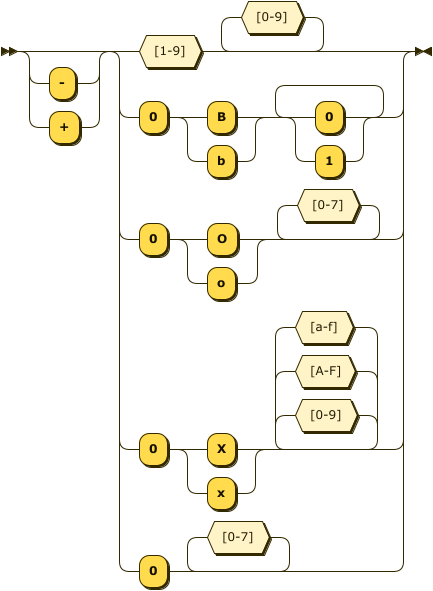
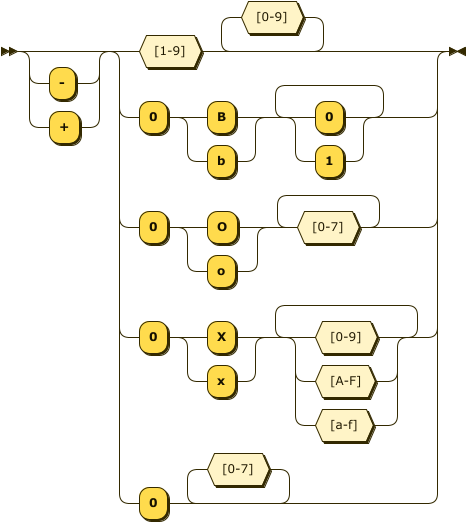
Fixed lexical scanning of integer literals

Changed region(s): [[0.0, 0.0306, 1.0, 1.0], [0.5104, 0.0, 0.7506, 0.0918], [0.5704, 0.5813, 0.6005, 0.6424]]

diff --git a/docs/language.html b/docs/language.html
@@ -268,7 +268,7 @@
           <div id="integer">
             <h1 class="pb-2">integer</h1>
             <p><img src="img/integer.png" alt="Railroad Diagram" /></p>
-            <pre><code>integer ::= [-+]? ([1-9][0-9]* | &quot;0&quot;[Bb][01]+ | &quot;0&quot;[Oo][0-7]* | &quot;0&quot;[Xx][0-9A-Fa-f]* | &quot;0&quot;[0-7]*)
+            <pre><code>integer ::= [-+]? ([1-9][0-9]* | &quot;0&quot;[Bb][01]+ | &quot;0&quot;[Oo][0-7]+ | &quot;0&quot;[Xx][0-9A-Fa-f]+ | &quot;0&quot;[0-7]*)
 </code></pre>
           </div>
           <div id="real">

diff --git a/language/language/OtScanner.cpp b/language/language/OtScanner.cpp
@@ -108,6 +108,18 @@ void OtScanner::loadSource(OtSource src) {
 
 
 //
+//	Helper functions
+//
+
+static inline bool isBinaryPrefix(char c) { return c == 'b' || c == 'B'; }
+static inline bool isOctalPrefix(char c) { return c == 'o' || c == 'O'; }
+static inline bool isHexPrefix(char c) { return c == 'x' || c == 'X'; }
+
+static inline bool isBinaryDigit(char c) { return c == '0' || c == '1'; }
+static inline bool isOctalDigit(char c) { return c >= '0' && c <= '7'; }
+
+
+//
 //	OtScanner::advance
 //
 
@@ -171,10 +183,11 @@ OtScanner::Token OtScanner::advance() {
 	if (position == size) {
 		token = Token::endOfText;
 
-	// handle numerical values
+	// handle numeric literals
 	} else if (std::isdigit(source->at(position)) ||
-				(source->at(position) =='-' && position < size && std::isdigit(source->at(position + 1))) ||
-				(source->at(position) =='+' && position < size && std::isdigit(source->at(position + 1)))) {
+		(source->at(position) =='-' && position < size && std::isdigit(source->at(position + 1))) ||
+		(source->at(position) =='+' && position < size && std::isdigit(source->at(position + 1)))) {
+
 		auto start = position;
 		int sign = 1;
 
@@ -186,68 +199,79 @@ OtScanner::Token OtScanner::advance() {
 			position++;
 		}
 
-		// see if we have a binary constant
-		if (source->at(position) == '0' && (source->at(position + 1) == 'b' || source->at(position + 1) == 'B')) {
+		// see if we have a binary literal
+		if (position + 3 < size && source->at(position) == '0' && isBinaryPrefix(source->at(position + 1)) && isBinaryDigit(source->at(position + 2))) {
 			position += 2;
 			auto value = position;
 
-			while (source->at(position) == '0' || source->at(position) == '1') {
+			while (position < size && isBinaryDigit(source->at(position))) {
 				position++;
 			}
 
 			integerValue = sign * std::stol(source->substr(value, position - value), 0, 2);
 			token = Token::integerLiteral;
 
-		// see if we have an octal constant
-		} else if (source->at(position) == '0' && (source->at(position + 1) == 'o' || source->at(position + 1) == 'O')) {
+		// see if we have an octal literal
+		} else if (position + 3 < size && source->at(position) == '0' && isOctalPrefix(source->at(position + 1)) && isOctalDigit(source->at(position + 2))) {
 			position += 2;
 			auto value = position;
 
-			while (source->at(position) >= '0' && source->at(position) <= '7') {
+			while (position < size && isOctalDigit(source->at(position))) {
 				position++;
 			}
 
 			integerValue = sign * std::stol(source->substr(value, position - value), 0, 8);
 			token = Token::integerLiteral;
 
-		// see if we have a hexadecimal constant
-		} else if (source->at(position) == '0' && (source->at(position + 1) == 'x' || source->at(position + 1) == 'X')) {
+		// see if we have a hexadecimal literal
+		} else if (position + 3 < size && source->at(position) == '0' && isHexPrefix(source->at(position + 1)) && isxdigit(source->at(position + 2))) {
 			position += 2;
 			auto value = position;
 
-			while (isxdigit(source->at(position))) {
+			while (position < size && isxdigit(source->at(position))) {
 				position++;
 			}
 
 			integerValue = sign * std::stol(source->substr(value, position - value), 0, 16);
 			token = Token::integerLiteral;
 
-		// handle integers and reals
+		// see if we have a C-style octal literal
+		} else if (position + 2 < size && source->at(position) == '0' && isOctalDigit(source->at(position + 1))) {
+			auto value = ++position;
+
+			while (position < size && isOctalDigit(source->at(position))) {
+				position++;
+			}
+
+			integerValue = sign * std::stol(source->substr(value, position - value), 0, 8);
+			token = Token::integerLiteral;
+
+		// handle decimal integers and reals
 		} else {
 			// handle integer part
-			while (std::isdigit(source->at(position))) {
+			while (position < size && std::isdigit(source->at(position))) {
 				position++;
 			}
 
 			// is this a real?
-			if (source->at(position) =='.' && position < size && std::isdigit(source->at(position + 1))) {
+			if (position < size && source->at(position) =='.' && position < size && std::isdigit(source->at(position + 1))) {
 				position++;
 
-				while (std::isdigit(source->at(position))) {
+				while (position < size && std::isdigit(source->at(position))) {
 					position++;
 				}
 
 				if (tolower(source->at(position)) =='e' && position < size) {
 					position++;
 
-					if (source->at(position) =='-') {
+					if (position < size && source->at(position) =='-') {
 						position++;
 
-					} else if (source->at(position) =='+') {
+					} else if (position < size && source->at(position) =='+') {
 						position++;
 					}
 
-					while (std::isdigit(source->at(position))) {
+					while (position < size && std::isdigit(source->at(position))) {
 						position++;
 					}
 				}
@@ -261,7 +285,7 @@ OtScanner::Token OtScanner::advance() {
 			}
 		}
 
-	// handle strings
+	// handle string literals
 	} else if (source->at(position) =='"') {
 		auto start = ++position;
 
@@ -279,7 +303,7 @@ OtScanner::Token OtScanner::advance() {
 
 	// handle identifiers (and tokens with identifier structure)
 	} else if (source->at(position) =='_' || std::isalpha(source->at(position))) {
-		while (source->at(position) =='_' || std::isalnum(source->at(position))) {
+		while (position < size && (source->at(position) =='_' || std::isalnum(source->at(position)))) {
 			position++;
 		}
 

diff --git a/docs-src/language/integer.md b/docs-src/language/integer.md
@@ -1,3 +1,3 @@
 ![Railroad Diagram](img/integer.png)
 
-    integer ::= [-+]? ([1-9][0-9]* | "0"[Bb][01]+ | "0"[Oo][0-7]* | "0"[Xx][0-9A-Fa-f]* | "0"[0-7]*)
+	integer ::= [-+]? ([1-9][0-9]* | "0"[Bb][01]+ | "0"[Oo][0-7]+ | "0"[Xx][0-9A-Fa-f]+ | "0"[0-7]*)
